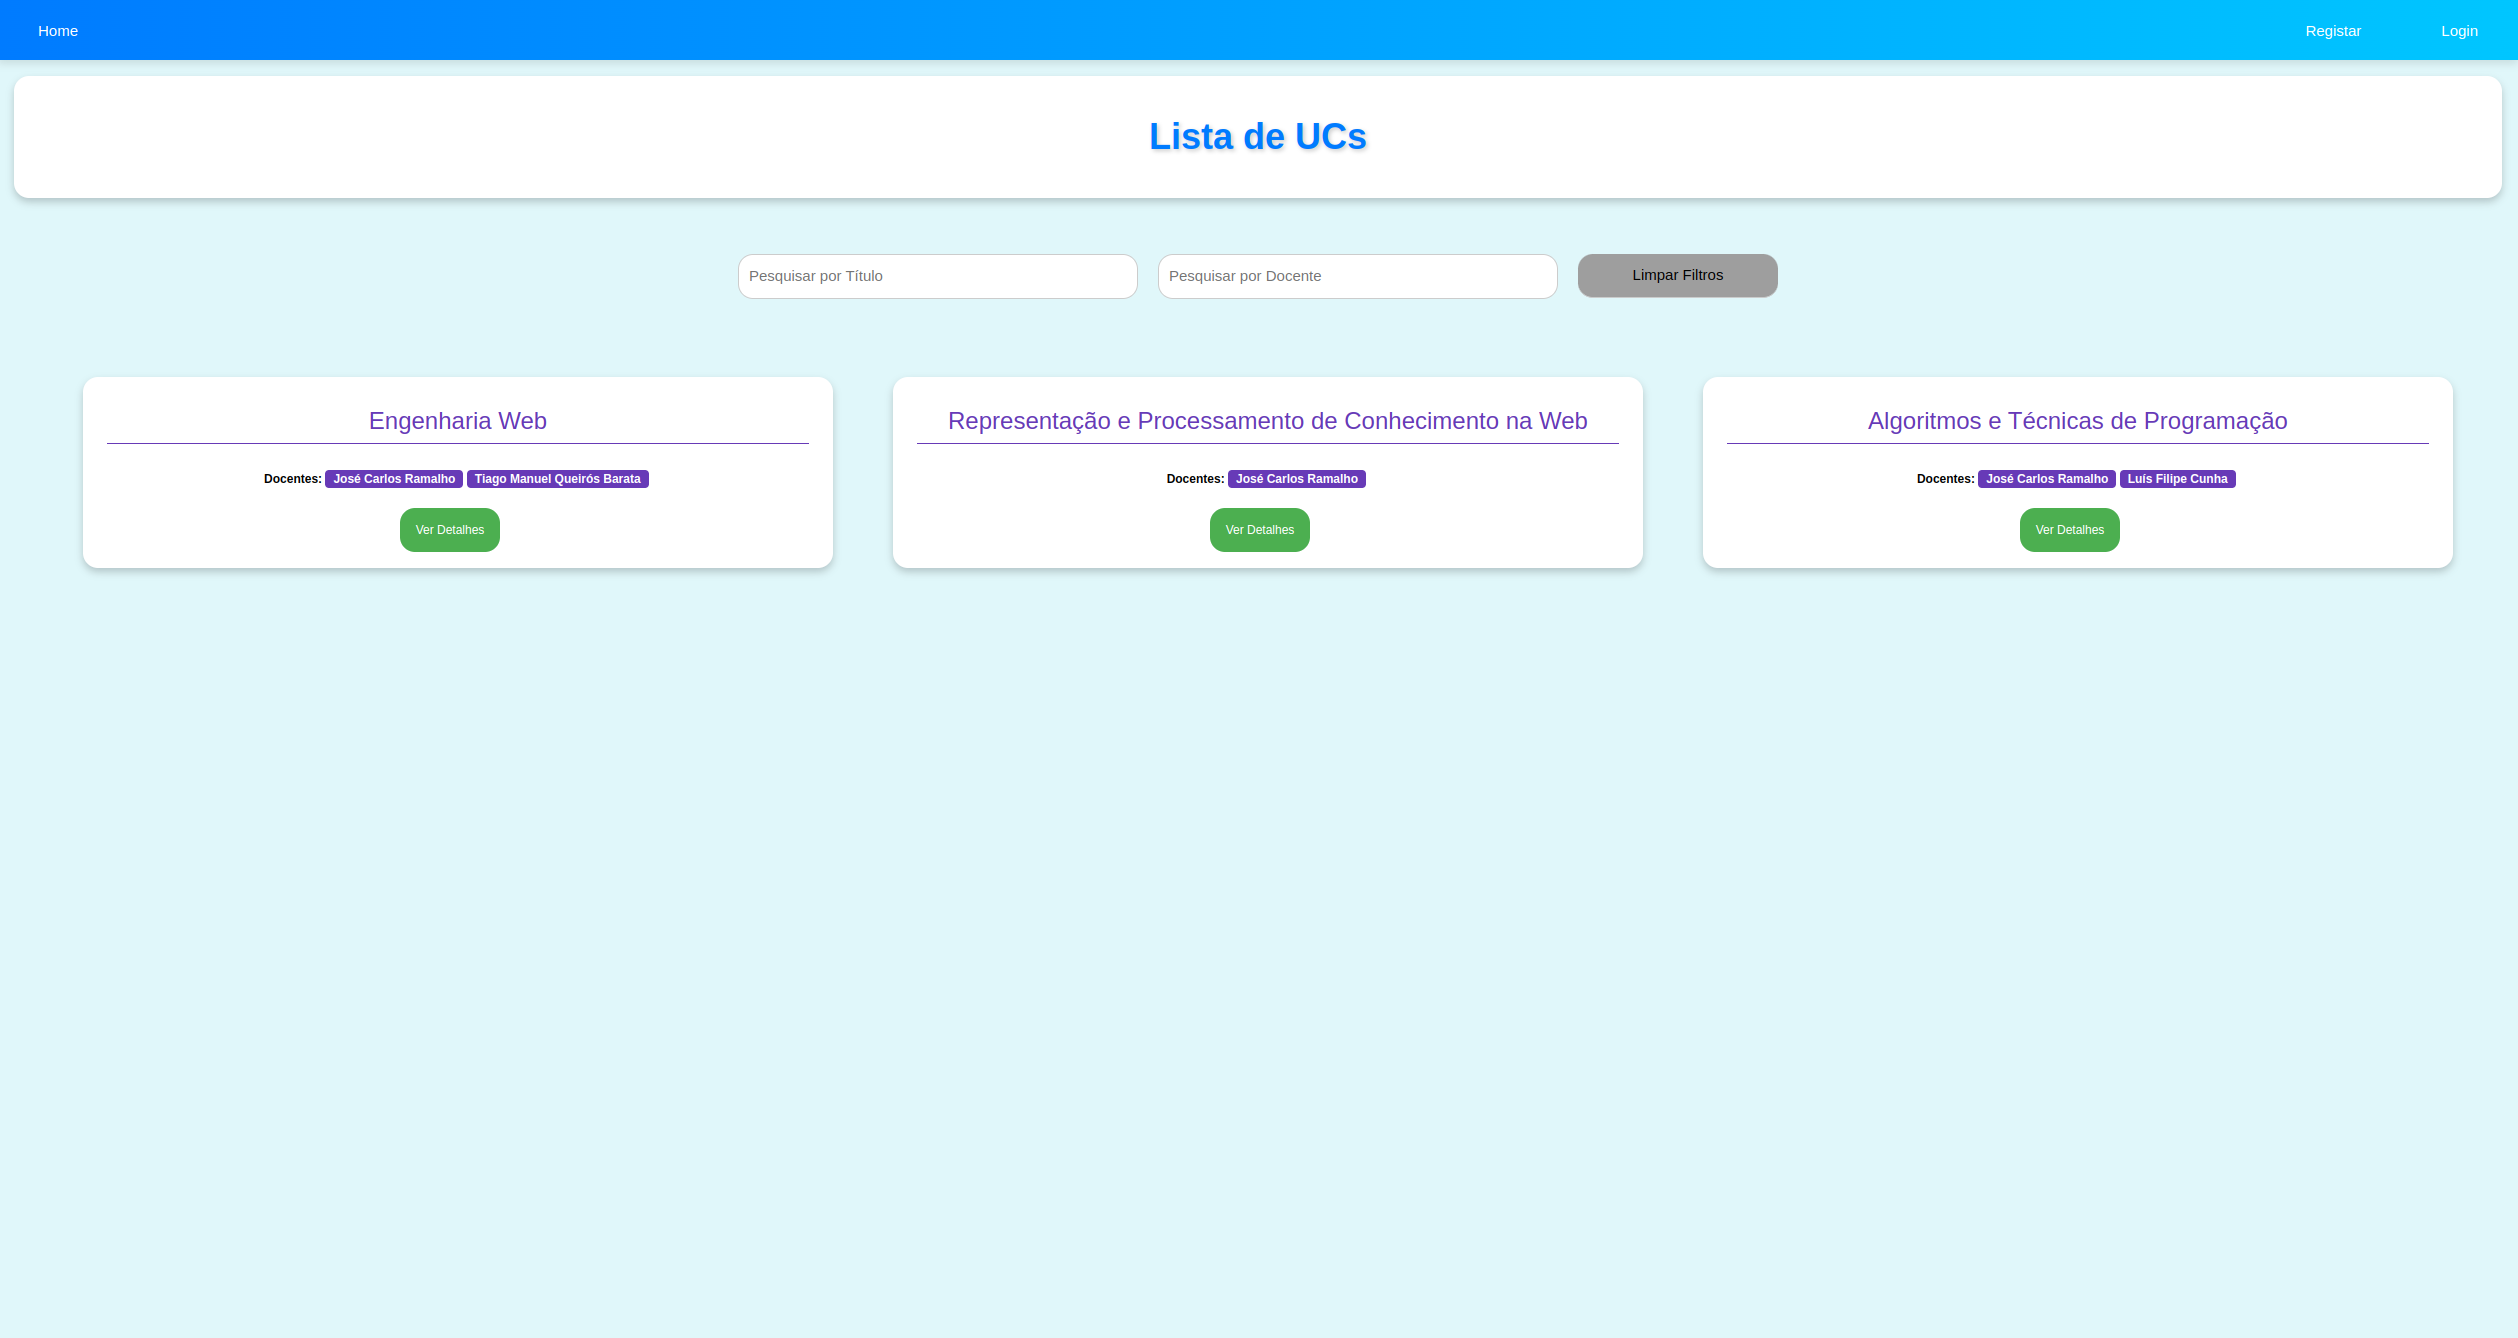
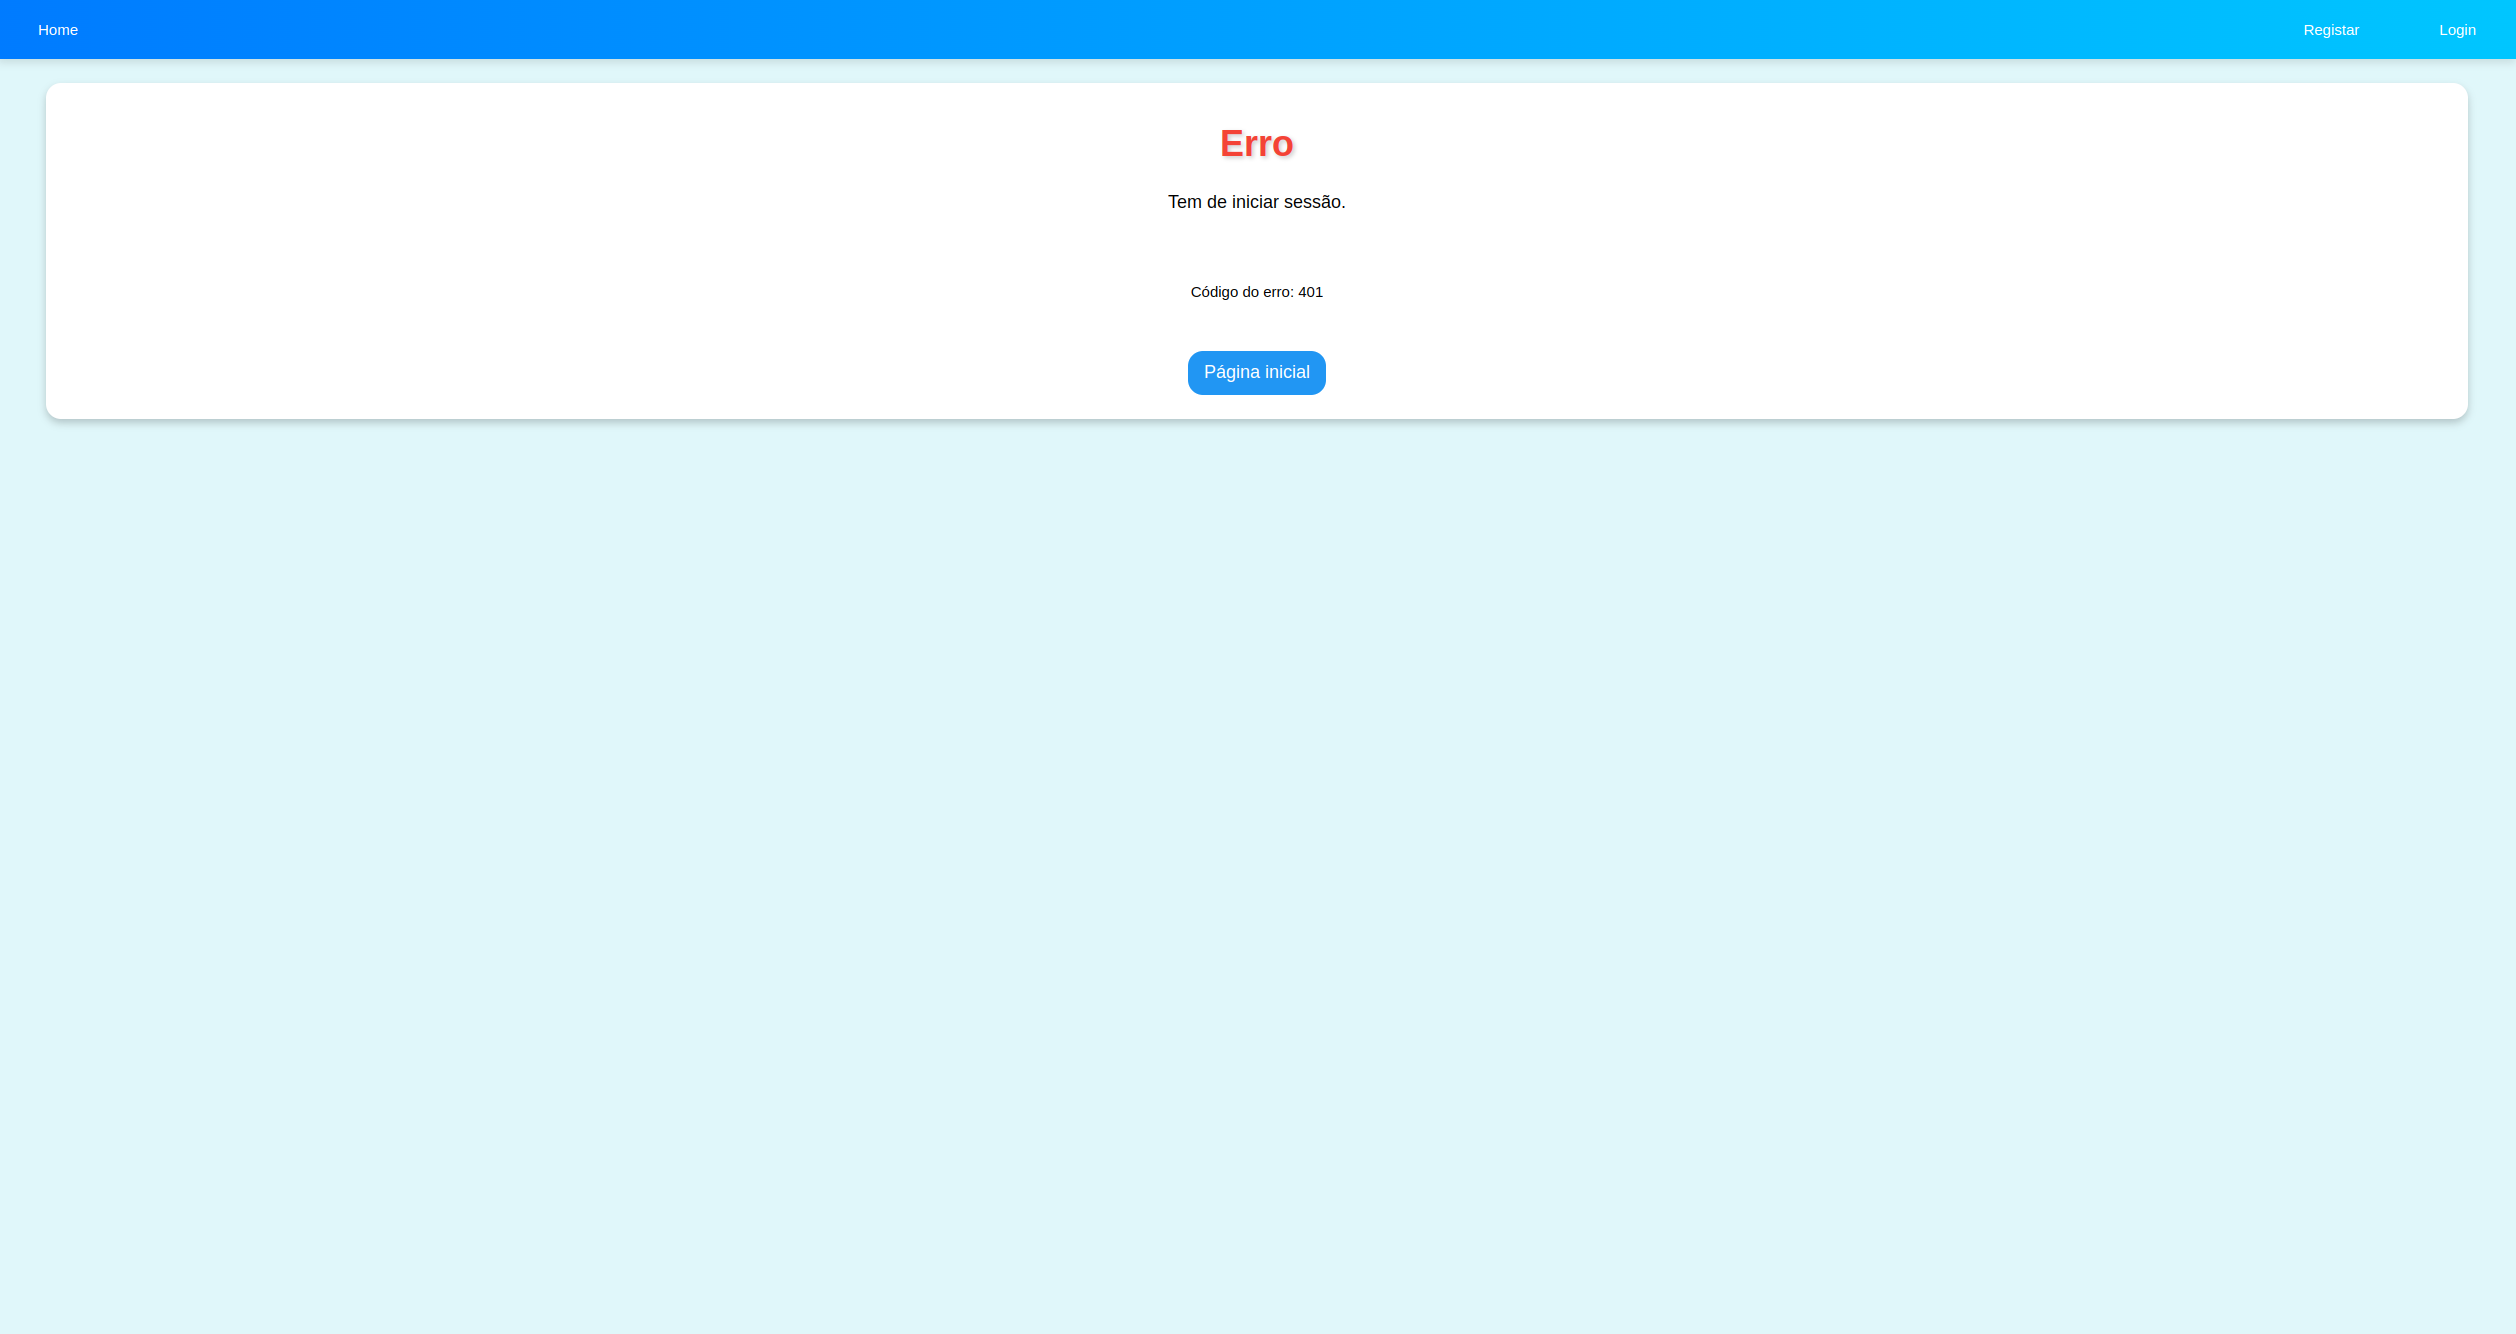
users apenas têm acesso a UCs com codigo

Changed region(s): [[0.0, 0.0307, 1.0, 0.4303]]

diff --git a/html-geradorUCs/routes/ucs.js b/html-geradorUCs/routes/ucs.js
@@ -3,6 +3,25 @@ const router = express.Router();
 const axios = require('axios');
 const auth = require('./../aux/auth');
 
+router.post('/add', async (req, res) => {
+    let { isAdmin, isDocente, username, fotoExt } = await auth.verifyToken(req);
+
+    if (isAdmin || isDocente) {
+        res.render('error', { error: { status: 402, message: 'Não necessita de adicionar UCs.' }, title: 'Erro', isAdmin, isDocente, username, fotoExt });
+        return;
+    }
+
+    const uc = req.body.sigla
+
+    axios.post(`${process.env.AUTH_URI}/ucs?token=${req.cookies.token}&uc=` + uc)
+        .then(() => {
+            res.redirect('/');
+        })
+        .catch(() => {
+            res.render('error', { error: { status: 501, message: 'Erro ao adicionar UC' }, title: 'Erro', isAdmin, isDocente, username, fotoExt });
+        });
+});
+
 router.post('/', async (req, res) => {
     let { isAdmin, isDocente, username, fotoExt } = await auth.verifyToken(req);
 
@@ -41,7 +60,7 @@ router.get('/:id', async (req, res) => {
     let { isAdmin, isDocente, username, fotoExt } = await auth.verifyToken(req);
 
     try {
-        let dados = await axios.get(`${process.env.API_URI}/ucs/${req.params.id}`);
+        let dados = await axios.get(`${process.env.API_URI}/ucs/${req.params.id}?token=${req.cookies.token}`);
         if (!dados.data) {
             res.render('error', { error: { status: 404, message: 'UC não encontrada' }, title: 'Erro', isAdmin, isDocente, username, fotoExt });
             return;
@@ -80,7 +99,7 @@ router.get('/edit/:id', async (req, res) => {
     }
 
     try {
-        let ucResponse = await axios.get(`${process.env.API_URI}/ucs/${req.params.id}`);
+        let ucResponse = await axios.get(`${process.env.API_URI}/ucs/${req.params.id}?token=${req.cookies.token}`);
 
         if (ucResponse.data.criador !== username && !isAdmin) {
             res.render('error', { error: { status: 401, message: 'Não tem permissões para editar esta UC' }, title: 'Erro', isAdmin, isDocente, username, fotoExt });
@@ -109,7 +128,7 @@ router.post('/edit/:id', async (req, res) => {
         return;
     }
 
-    const ucResponse = await axios.get(`${process.env.API_URI}/ucs/${req.params.id}`);
+    const ucResponse = await axios.get(`${process.env.API_URI}/ucs/${req.params.id}?token=${req.cookies.token}`);
 
     if (ucResponse.data.criador !== username && !isAdmin) {
         res.render('error', { error: { status: 401, message: 'Não tem permissões para editar esta UC' }, title: 'Erro', isAdmin, isDocente, username, fotoExt });
@@ -149,7 +168,7 @@ router.get('/delete/:id', async (req, res) => {
         return;
     }
 
-    const ucResponse = await axios.get(`${process.env.API_URI}/ucs/${req.params.id}`);
+    const ucResponse = await axios.get(`${process.env.API_URI}/ucs/${req.params.id}?token=${req.cookies.token}`);
     if (ucResponse.data.criador !== username && !isAdmin) {
         res.render('error', { error: { status: 401, message: 'Não tem permissões para eliminar esta UC' }, title: 'Erro', isAdmin, isDocente, username, fotoExt });
         return;

diff --git a/api-geradorUCs/routes/ucs.js b/api-geradorUCs/routes/ucs.js
@@ -2,18 +2,53 @@ const express = require('express');
 const router = express.Router();
 const auth = require('../auth/auth');
 const UC = require('../controllers/uc');
+const axios = require('axios');
 
 const handleError = (res, error, message = 'Erro inesperado', status = 500) => {
     res.status(status).jsonp({ error: message, details: error });
 };
 
-router.get('/', (req, res) => {
+router.get('/', auth.verificaAcesso, async (req, res) => {
+    const username = req.payload.username;
+
+    var user = await axios.get(`${process.env.AUTH_URI}/${username}?token=${req.query.token}`);
+
+    if (user.data.error) {
+        return res.status(404).jsonp({ error: "User not found" });
+    }
+    
+    if (user.data.level != 'Admin' && user.data.level != 'AdminDocente' && user.data.level != 'Docente') {
+        return UC.list()
+            .then(data => res.jsonp(data.filter(uc => user.data.ucs.includes(uc._id))))
+            .catch(error => handleError(res, error));
+    }
+
     UC.list()
         .then(data => res.jsonp(data))
         .catch(error => handleError(res, error));
 });
 
-router.get('/:id', (req, res) => {
+router.get('/:id', auth.verificaAcesso, async (req, res) => {
+    const username = req.payload.username;
+
+    var user = await axios.get(`${process.env.AUTH_URI}/${username}?token=${req.query.token}`);
+
+    if (user.data.error) {
+        return res.status(404).jsonp({ error: "User not found" });
+    }
+
+    if (user.data.level != 'Admin' && user.data.level != 'AdminDocente' && user.data.level != 'Docente') {
+        return UC.findById(req.params.id)
+            .then(data => {
+                if (!user.data.ucs.includes(data._id)) {
+                    return res.status(403).jsonp({ message: 'Não autorizado' });
+                }
+
+                res.jsonp(data);
+            })
+            .catch(error => handleError(res, error));
+    }
+    
     UC.findById(req.params.id)
         .then(data => res.jsonp(data))
         .catch(error => handleError(res, error));
@@ -24,6 +59,7 @@ router.post('/', auth.verificaAcesso, (req, res) => {
         return res.status(403).jsonp({ message: 'Não autorizado' });
     }
 
+    req.body.ucs = []
     UC.insert(req.body)
         .then(data => res.jsonp(data))
         .catch(error => handleError(res, error));
@@ -75,6 +111,18 @@ router.delete('/:id', auth.verificaAcesso, (req, res) => {
             .then(data => res.jsonp(data))
             .catch(error => handleError(res, error));
     }
+});
+
+router.get('/exists/:id', (req, res) => {
+    UC.findById(req.params.id)
+        .then(data => {
+            if (data) {
+                res.jsonp({ exists: true });
+            } else {
+                res.jsonp({ error: 'UC não encontrada', exists: false });
+            }
+        })
+        .catch(error => handleError(res, error));
 });
 
 module.exports = router;

diff --git a/auth-geradorUCs/routes/index.js b/auth-geradorUCs/routes/index.js
@@ -3,12 +3,43 @@ const passport = require('passport');
 const User = require('../models/user');
 const auth = require('../auth/auth');
 const jwt = require('jsonwebtoken');
+const axios = require('axios');
 
 const router = express.Router();
 
 const handleError = (res, error, message = 'Erro inesperado', status = 500) => {
     res.status(status).jsonp({ error: message, message: error });
 };
+
+router.post('/ucs', auth.verificaAcesso, async (req, res) => {
+    const uc = req.query.uc;
+
+    if (!uc) {
+        return res.status(400).jsonp({ error: "Missing UC" });
+    }
+
+    if (req.payload.level == 'Admin' || req.payload.level == 'AdminDocente') {
+        return res.status(403).jsonp({ error: "Não necessita de adicionar UCs" });
+    }
+
+    const ucResponse = await axios.get(`${process.env.API_URI}/ucs/exists/` + uc)
+    if (ucResponse.data.error) {
+        return res.status(404).jsonp({ error: "UC not found" });
+    }
+
+    User.findOne({ username: req.payload.username }).exec()
+        .then(dados => {
+            if (!dados) {
+                return res.status(404).jsonp({ error: "User not found" });
+            }
+
+            dados.ucs.push(uc);
+            dados.save()
+                .then(() => res.jsonp({ message: "UC added successfully" }))
+                .catch(e => handleError(res, e));
+        })
+        .catch(e => handleError(res, e));
+});
 
 router.get('/', (req, res) => {
     const role = req.query.role.toLowerCase();

diff --git a/html-geradorUCs/routes/index.js b/html-geradorUCs/routes/index.js
@@ -29,10 +29,15 @@ const removeAccents = (str) => {
 
 router.get('/', async (req, res) => {
     const { titulo, docente } = req.query;
-    let { isAdmin, isDocente, username, fotoExt } = await auth.verifyToken(req);
+    var verifyRes = await auth.verifyToken(req);
+    let { isAdmin, isDocente, username, fotoExt } = verifyRes;
+
+    if (username === '' || verifyRes.error || username === undefined) {
+        return res.render('error', { error: { status: 401, message: 'Tem de iniciar sessão.' }, title: 'Erro', isAdmin, isDocente, username, fotoExt });
+    }
 
     try {
-        const ucResponse = await axios.get(`${process.env.API_URI}/ucs`);
+        const ucResponse = await axios.get(`${process.env.API_URI}/ucs?token=${req.cookies.token}`);
         let ucs = ucResponse.data;
 
         if (titulo) {

diff --git a/auth-geradorUCs/models/user.js b/auth-geradorUCs/models/user.js
@@ -10,9 +10,14 @@ var userSchema = new mongoose.Schema({
     filiacao: String,
     webpage: String,
     level: String,
-    fotoExt: String
+    fotoExt: String,
+    ucs: [String]
   });
 
 userSchema.plugin(passportLocalMongoose);
+
+userSchema.addUC = function (uc) {
+    this.ucs.push(uc);
+}
 
 module.exports = mongoose.model('user', userSchema)

diff --git a/auth-geradorUCs/app.js b/auth-geradorUCs/app.js
@@ -47,4 +47,8 @@ passport.deserializeUser(User.deserializeUser());
 
 app.use('/', indexRouter);
 
+app.use(async function(err, req, res, next) {
+  console.error(err.stack);
+});
+
 module.exports = app;

diff --git a/README.md b/README.md
@@ -108,6 +108,7 @@ O projeto é uma aplicação web completa que integra várias partes para fornec
 Existem 3 níveis de acesso (e mais 1 que combina 2 deles): Admin, Docente, Aluno e AdminDocente (que combina as permissões de Docente e Admin, logo, quando se falar em permissões de Administrador, o AdminDocente está incluído)
 
 - **Listar Utilizadores**: Qualquer nível (omite-se, obviamente, os atributos sensíveis)
+- **Adicionar acesso a uma UC**: Apenas Alunos (Administradores e Docentes já têm acesso a todas)
 - **Registar Administrador, Administrador-Docente, ou Docente**: Apenas Administradores
 - **Registar Aluno**: Qualquer nível
 - **Apagar Utilizador**: Apenas Administradores
@@ -147,8 +148,8 @@ A API é responsável por gerir as Unidades Curriculares (UCs). Utiliza o framew
 
 #### Permissões
 
-- **Listar UCs**: Qualquer nível
-- **Obter UC**: Qualquer nível
+- **Listar UCs**: Qualquer nível, porém aos Alunos apenas lhes são devolvidas as UCs que têm acesso
+- **Obter UC**: Qualquer nível, porém aos Alunos apenas lhe é permitido obter a informação de uma UC que tenha acesso
 - **Atualizar UC**: Apenas Administradores ou o Docente Criador da UC
 - **Eliminar UC**: Apenas Administradores ou o Docente Criador da UC
 
@@ -189,6 +190,7 @@ A API é responsável por gerir as Unidades Curriculares (UCs). Utiliza o framew
 4. **Gestão de Ficheiros**: Permite o upload, download e gestão de ficheiros do utilizador / servidor.
 5. **Gestão de Utilizadores**: Permite aos gerir outros Docentes / Administradores (adicionar, eliminar).
 6. **Alterar Palavra-Passe**: Formulário modal para alterar a palavra-passe.
+7. **Obter Acesso a UC**: Formulário modal para inserir o código da UC para ter acesso à mesma.
 
 #### Permissões
 
@@ -196,6 +198,7 @@ A API é responsável por gerir as Unidades Curriculares (UCs). Utiliza o framew
 - **Gerir os seus próprios Ficheiros**: Docente que têm a sessão iniciada e Administradores
 - **Alterar Palavra-Passe**: O utilizador que tem a sessão iniciada
 - **Gerir Docentes e Administradores**: Apenas Administradores
+- **Obter Acesso a UC**: Apenas Alunos (Administradores e Docentes já têm acesso a todas as UCs)
 
 #### Dockerfile
 
@@ -299,6 +302,10 @@ O ficheiro docker-compose.yml define os serviços necessários para a execução
 ### Página de Adicionar uma UC
 
 ![Página de Adicionar uma UC](./imgs/AddUC.png)
+
+### Página de Obter Acesso a uma UC
+
+![Página de Obter Acesso a uma UC](./imgs/AccessUC.png)
 
 ### Página de Ficheiros de um Utilizador
 
